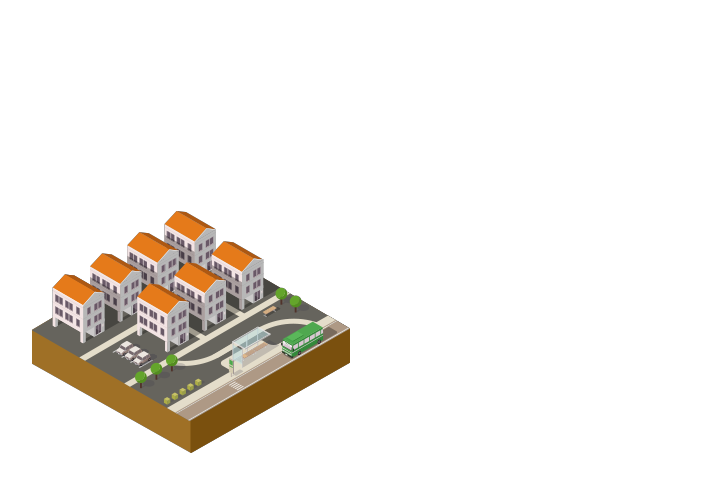
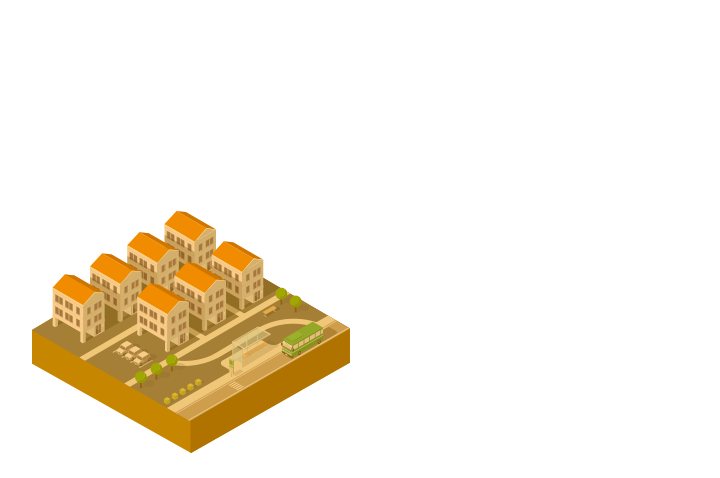
fix the alpha value issue of the kernel shader

Changed region(s): [[0.0306, 0.4393, 0.4889, 0.9665]]

diff --git a/Example/URExampleWeatherView/URToneCurveImageView.swift b/Example/URExampleWeatherView/URToneCurveImageView.swift
@@ -25,6 +25,7 @@ extension URToneCurveAppliable where Self: UIImageView {
         let filteredImage = filter.outputImage!
 
         var arguments: [CIImage] = [CIImage]()
+        arguments.append(CIImage(image: self.originalImages[0])!)
         if !(pointsForRed == DefaultToneCurveInputs
             && pointsForGreen == DefaultToneCurveInputs
             && pointsForBlue == DefaultToneCurveInputs) {
@@ -62,7 +63,7 @@ extension URToneCurveAppliable where Self: UIImageView {
             arguments.append(filteredImageForBlue)
         }
 
-        if arguments.count == 3 {
+        if arguments.count == 4 {
             guard let resultImage: CIImage = URToneCurveFilter.colorKernel.apply(withExtent: filteredImage.extent, arguments: arguments) else {
                 fatalError("Filtered Image merging is failed!!")
             }

diff --git a/Example/URExampleWeatherView/URToneCurveFilter.swift b/Example/URExampleWeatherView/URToneCurveFilter.swift
@@ -41,8 +41,8 @@ class URToneCurveFilter: CIFilter {
         "}")!
 
     public static var colorKernel: CIColorKernel = CIColorKernel(string:
-        "kernel vec4 combineRGBChannel(__sample red, __sample green, __sample blue) {" +
-            "   vec4 result = vec4(red.r, green.g, blue.b, 1.0);" +
+        "kernel vec4 combineRGBChannel(__sample red, __sample green, __sample blue, __sample rgb) {" +
+            "   vec4 result = vec4(red.r, green.g, blue.b, rgb.a);" +
             "   bool isTransparency = true;" +
             "   if (red.r == 0.0 && red.g == 0.0 && red.b == 0.0 && red.a == 0.0) {" +
             "       result.r = 0.0;" +

diff --git a/Example/URExampleWeatherView/LOTAnimationView+Filter.swift b/Example/URExampleWeatherView/LOTAnimationView+Filter.swift
@@ -57,7 +57,7 @@ extension URToneCurveAppliable where Self: LOTAnimationView {
                 let green = URToneCurveFilter(cgImage: cgImage, with: values["G"]!).outputImage!
                 let blue = URToneCurveFilter(cgImage: cgImage, with: values["B"]!).outputImage!
 
-                guard let resultImage: CIImage = URToneCurveFilter.colorKernel.apply(withExtent: red.extent, arguments: [red, green, blue]) else {
+                guard let resultImage: CIImage = URToneCurveFilter.colorKernel.apply(withExtent: red.extent, arguments: [red, green, blue, CIImage(cgImage: cgImage)]) else {
                     return
                 }
 
